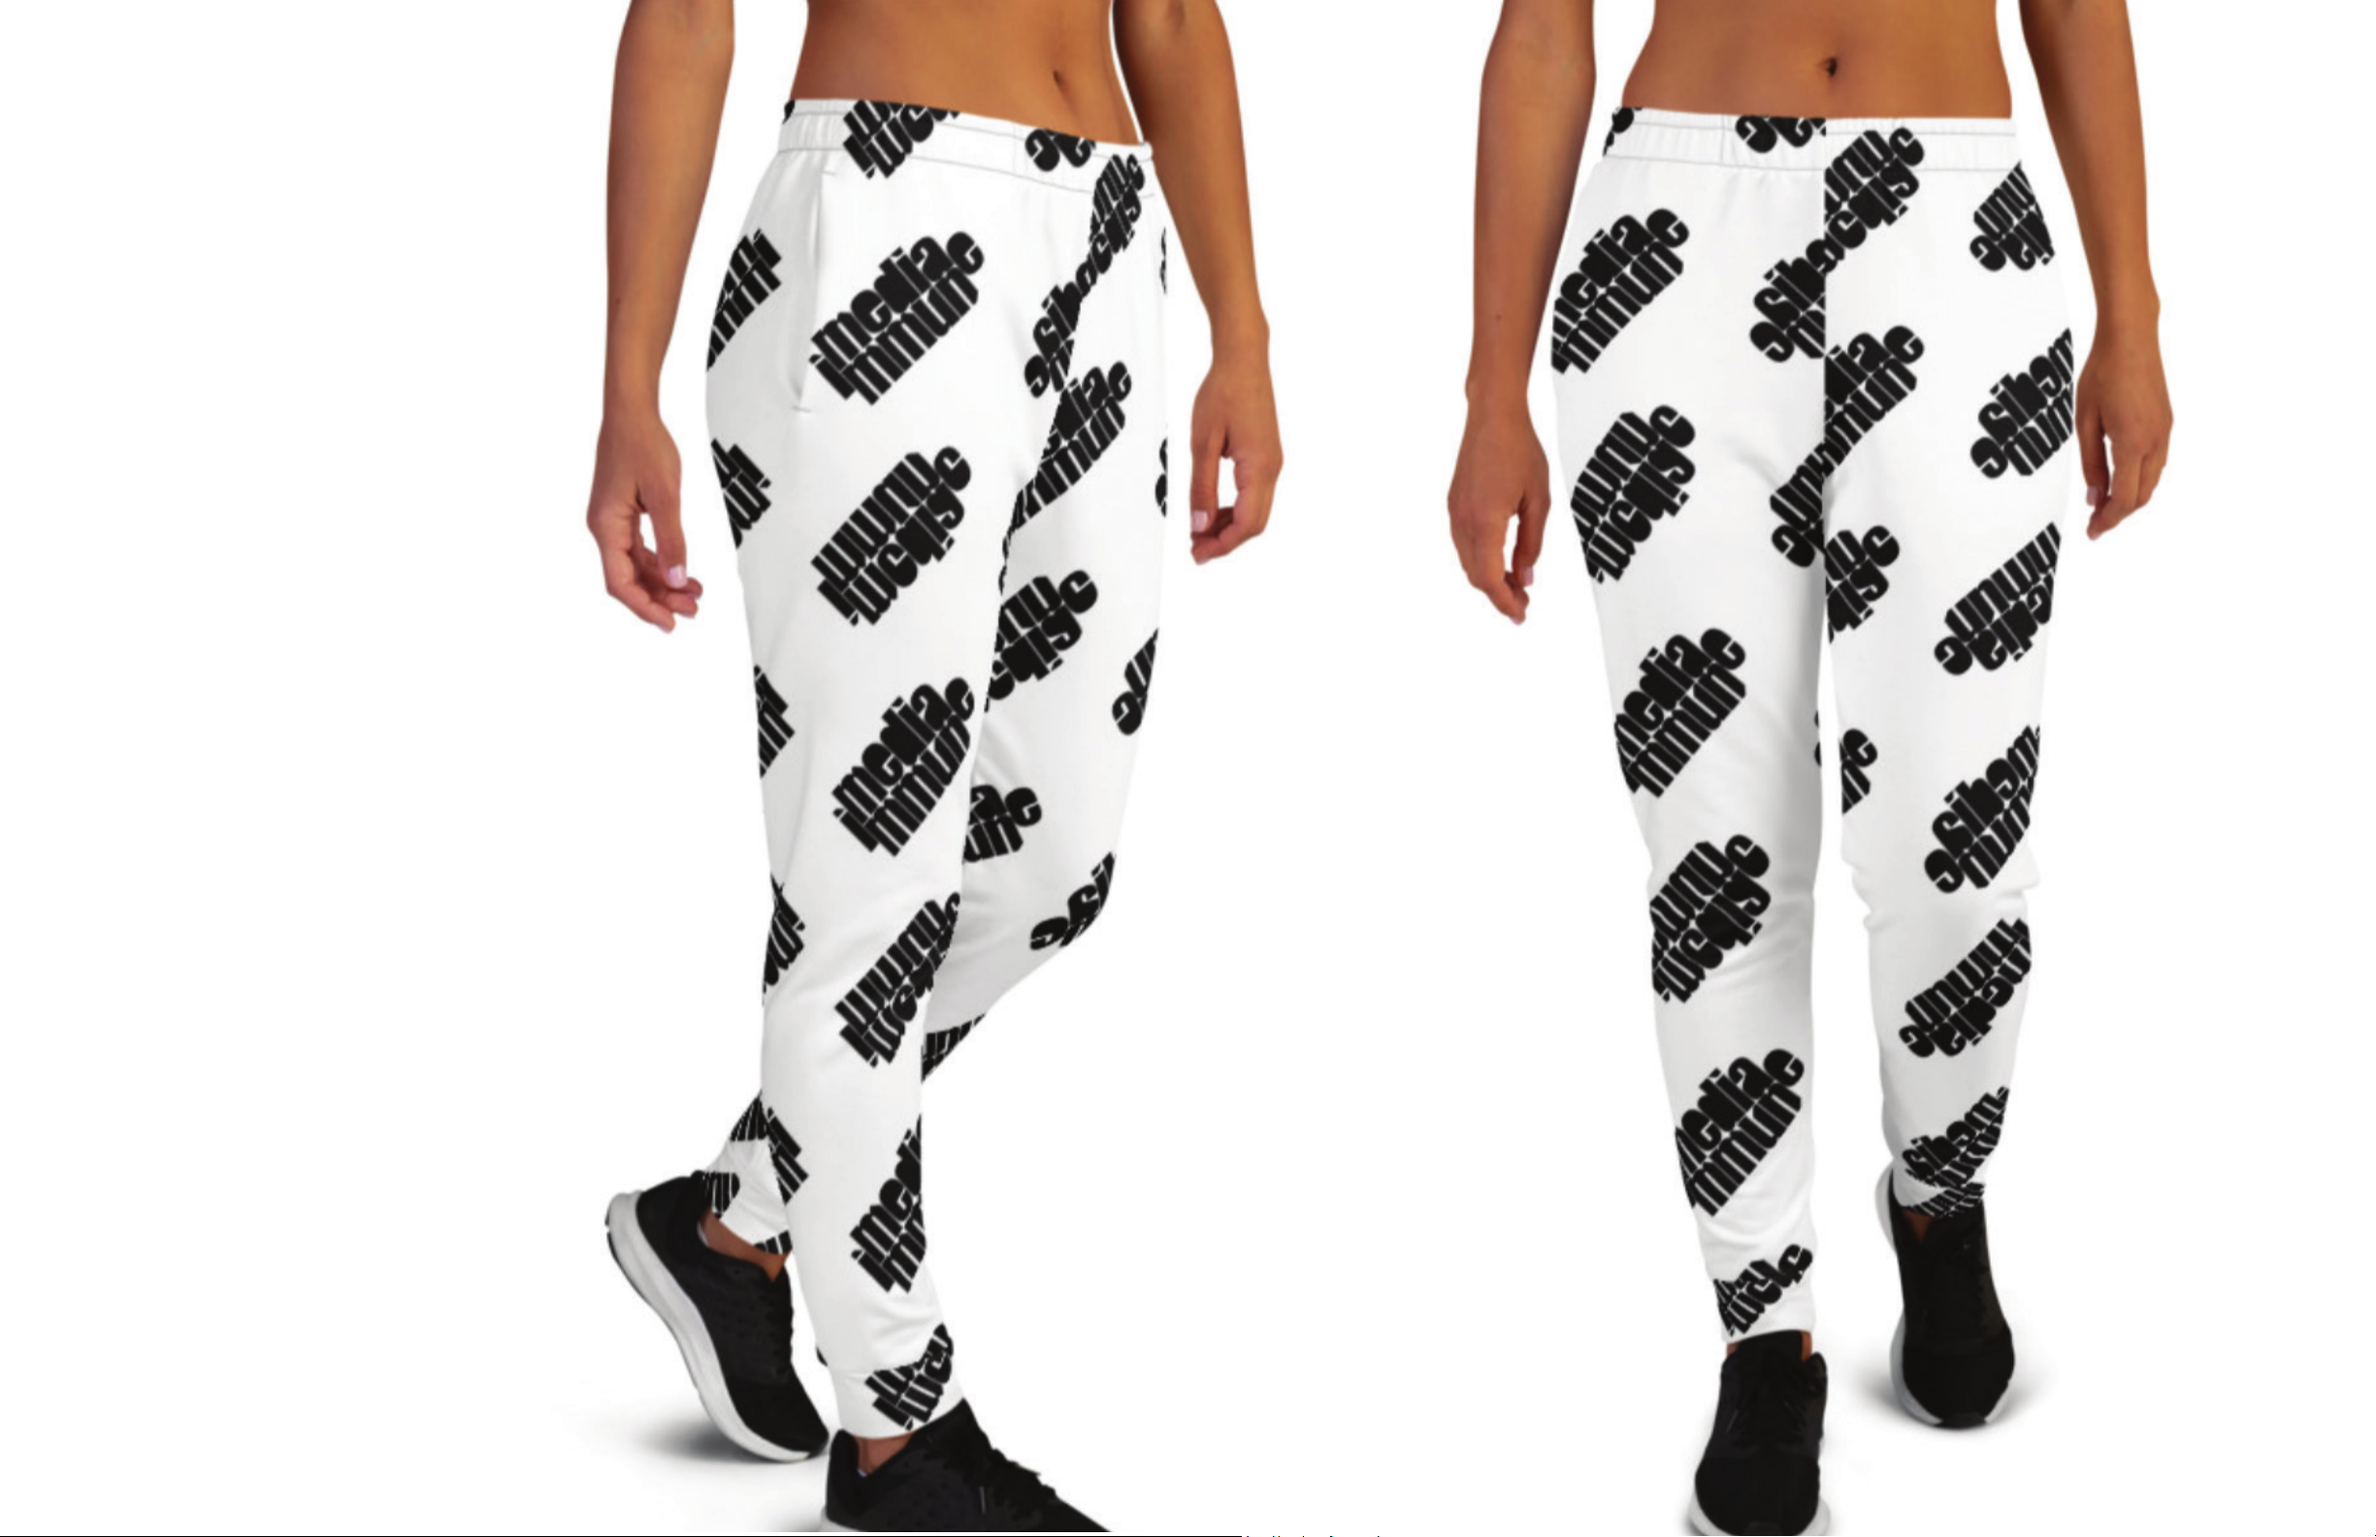
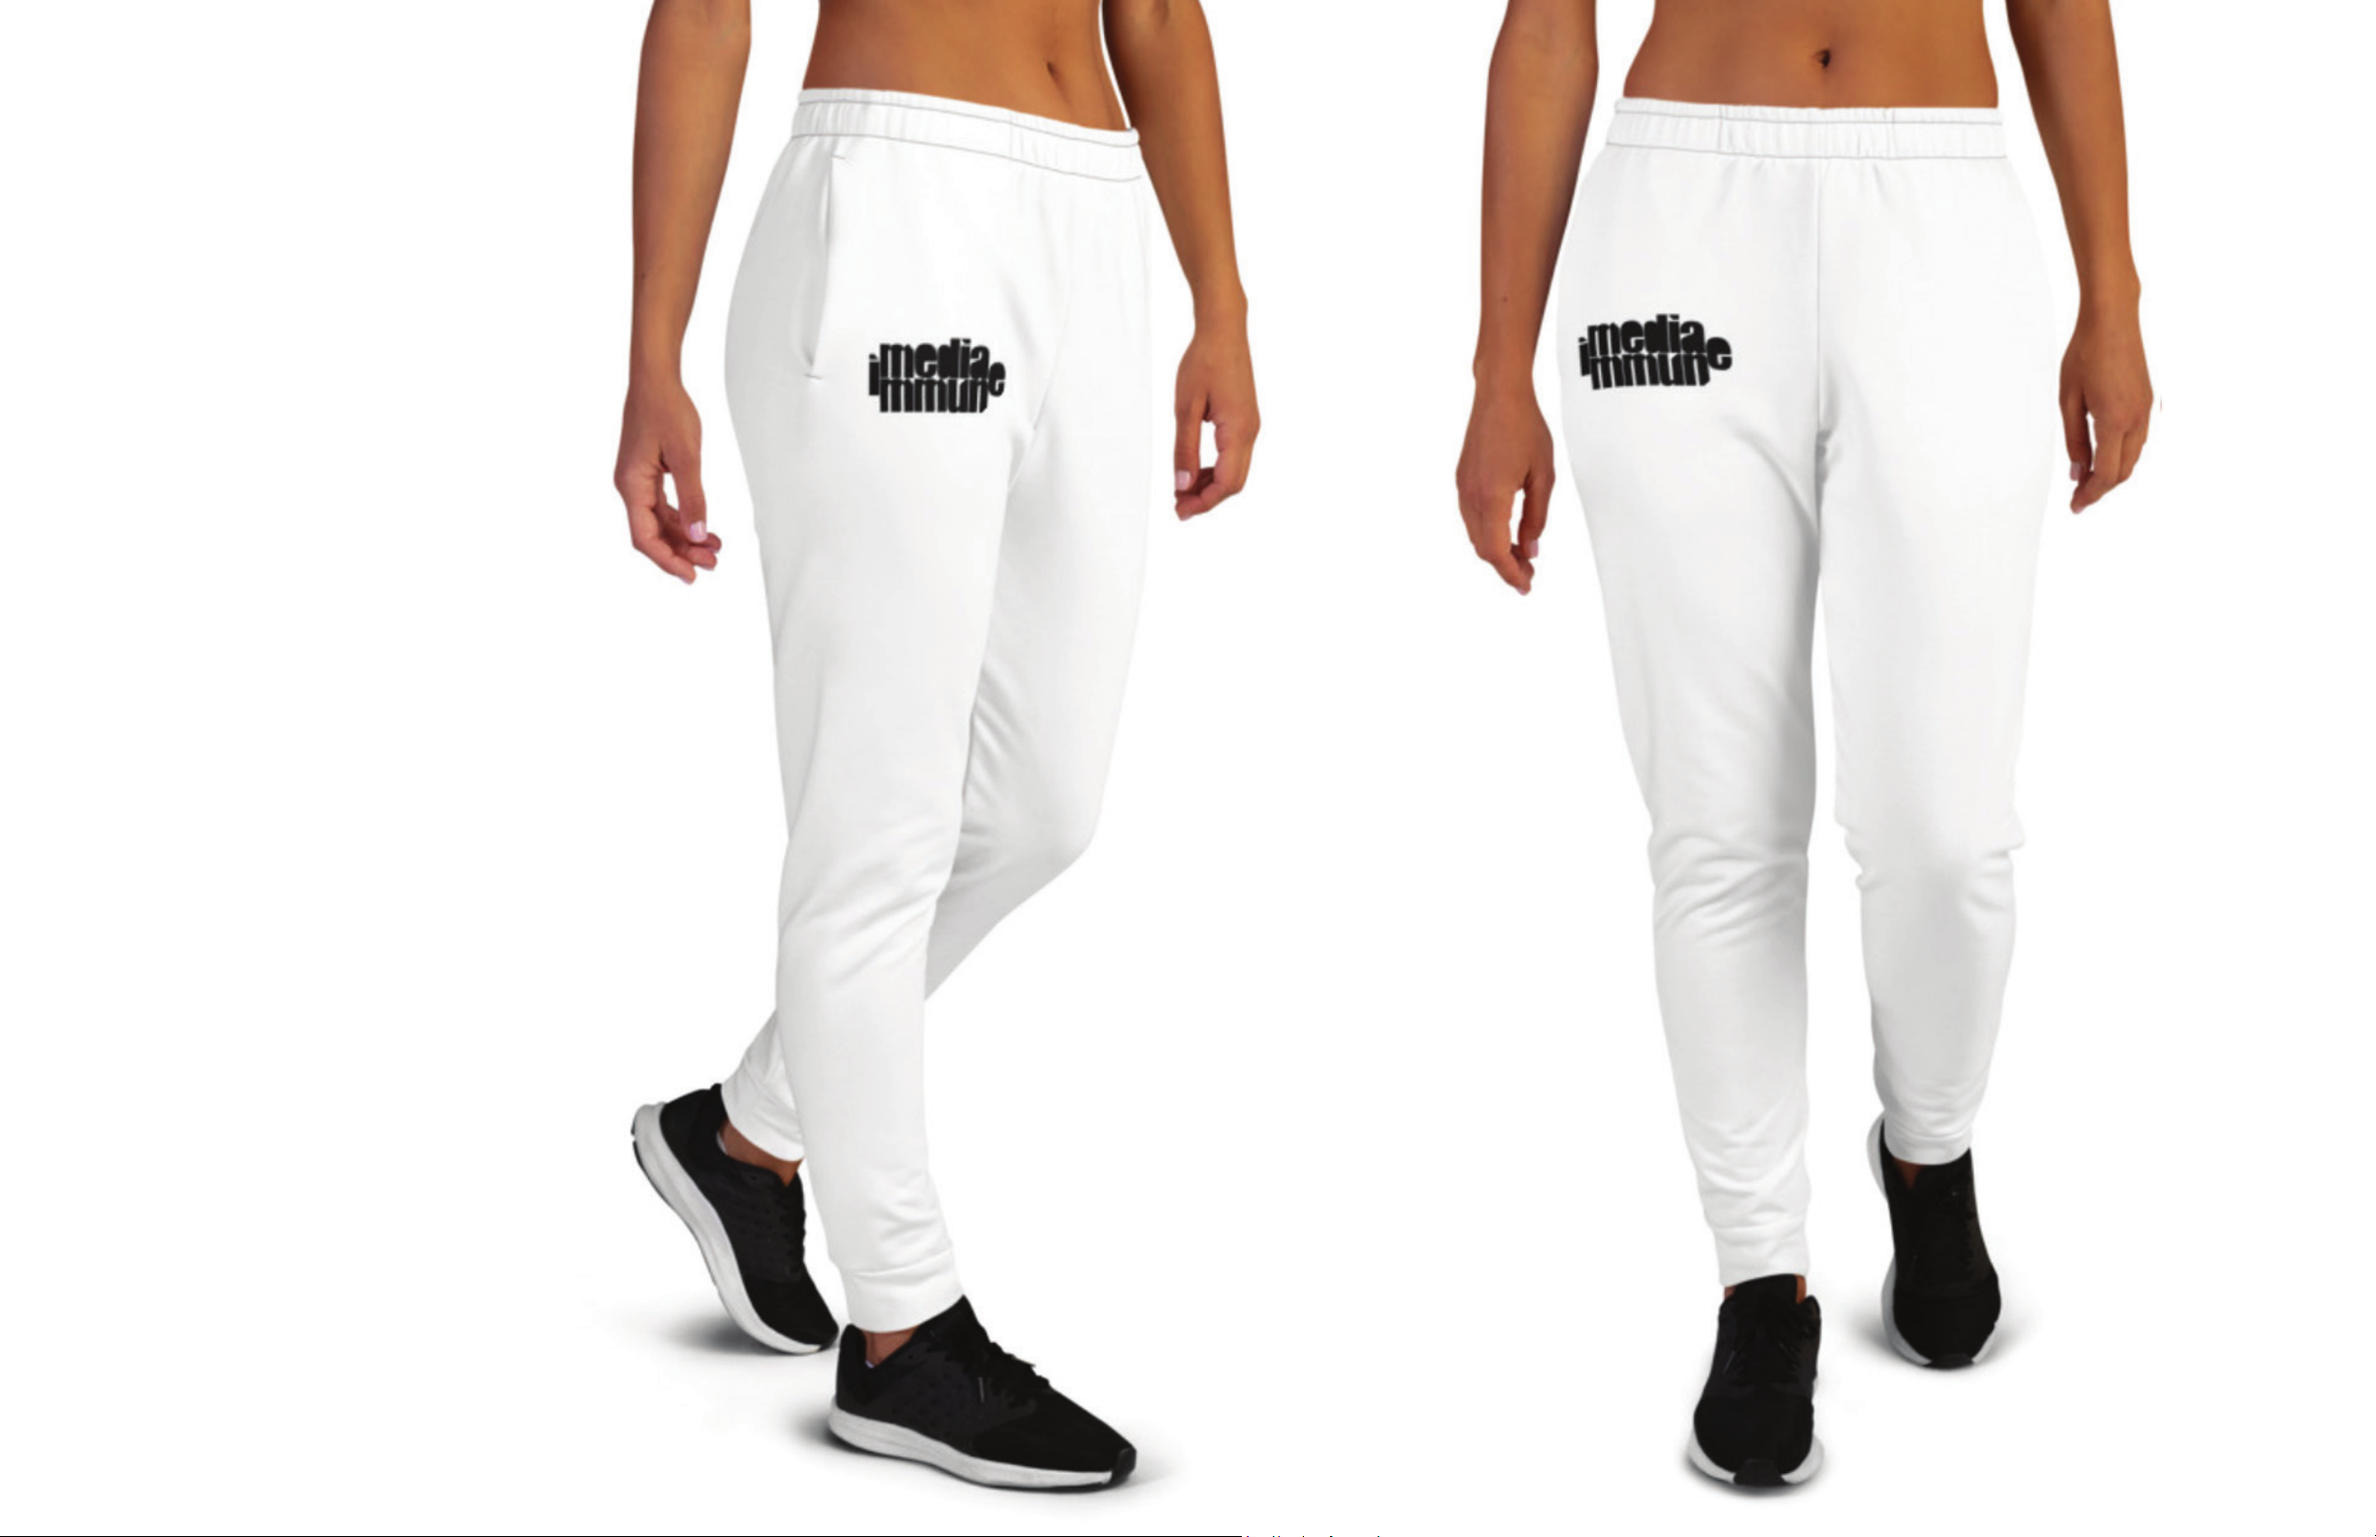
final

Changed region(s): [[0.2483, 0.0, 0.5586, 1.0], [0.5896, 0.0, 0.931, 1.0]]

diff --git a/index.html b/index.html
@@ -6164,7 +6164,7 @@
         e.preventDefault();
 
         var passphrase = document.getElementById('staticrypt-password').value,
[2 lines of base64/hex data omitted]
             encryptedHMAC = encryptedMsg.substring(0, 64),
             encryptedHTML = encryptedMsg.substring(64),
             decryptedHMAC = CryptoJS.HmacSHA256(encryptedHTML, CryptoJS.SHA256(passphrase).toString()).toString();

diff --git a/brandingguide.css b/brandingguide.css
@@ -8,7 +8,7 @@
 @font-face{font-family:ff7;src:url(f7.woff)format("woff");}.ff7{font-family:ff7;line-height:1.203000;font-style:normal;font-weight:normal;visibility:visible;}
 @font-face{font-family:ff8;src:url(f8.woff)format("woff");}.ff8{font-family:ff8;line-height:0.712000;font-style:normal;font-weight:normal;visibility:visible;}
 @font-face{font-family:ff9;src:url(f9.woff)format("woff");}.ff9{font-family:ff9;line-height:0.712000;font-style:normal;font-weight:normal;visibility:visible;}
-.m0{transform:matrix(0.375000,0.000000,0.000000,0.375000,0,0);-ms-transform:matrix(0.375000,0.000000,0.000000,0.375000,0,0);-webkit-transform:matrix(0.375000,0.000000,0.000000,0.375000,0,0);}
+.m0{transform:matrix(0.250000,0.000000,0.000000,0.250000,0,0);-ms-transform:matrix(0.250000,0.000000,0.000000,0.250000,0,0);-webkit-transform:matrix(0.250000,0.000000,0.000000,0.250000,0,0);}
 .v0{vertical-align:0.000000px;}
 .ls2{letter-spacing:-52.228440px;}
 .ls1{letter-spacing:-48.327960px;}
@@ -55,112 +55,112 @@
 .fs0{font-size:288.000000px;}
 .fs4{font-size:483.279600px;}
 .fs5{font-size:522.284400px;}
-.y12{bottom:-99.717000px;}
-.ye{bottom:-99.716850px;}
-.ya{bottom:-99.715500px;}
-.y11{bottom:-73.797000px;}
-.yd{bottom:-73.796850px;}
-.y9{bottom:-73.795500px;}
-.y10{bottom:-47.877000px;}
-.yc{bottom:-47.876850px;}
-.y8{bottom:-47.875500px;}
-.y0{bottom:-0.750000px;}
-.y27{bottom:39.735600px;}
-.y23{bottom:43.335600px;}
-.y4{bottom:52.335600px;}
-.y25{bottom:57.735600px;}
-.y19{bottom:76.357200px;}
-.y28{bottom:81.135600px;}
-.y26{bottom:120.735600px;}
-.y22{bottom:124.335600px;}
-.y3{bottom:135.577050px;}
-.y24{bottom:138.735600px;}
-.yf{bottom:212.250000px;}
-.y2{bottom:243.577050px;}
-.y1d{bottom:284.964600px;}
-.y13{bottom:290.700000px;}
-.y17{bottom:303.805200px;}
-.y1{bottom:351.577050px;}
-.y1c{bottom:398.632500px;}
-.yb{bottom:497.250000px;}
-.y18{bottom:523.585200px;}
-.y1e{bottom:542.145600px;}
-.y1b{bottom:553.248798px;}
-.y1f{bottom:570.735600px;}
-.y20{bottom:570.736050px;}
-.y21{bottom:575.258550px;}
-.y6{bottom:575.700000px;}
-.y16{bottom:646.165200px;}
-.y1a{bottom:684.096750px;}
-.y7{bottom:808.048500px;}
-.y15{bottom:831.277200px;}
-.y5{bottom:886.500000px;}
-.y14{bottom:1015.093200px;}
+.y12{bottom:-66.478000px;}
+.ye{bottom:-66.477900px;}
+.ya{bottom:-66.477000px;}
+.y11{bottom:-49.198000px;}
+.yd{bottom:-49.197900px;}
+.y9{bottom:-49.197000px;}
+.y10{bottom:-31.918000px;}
+.yc{bottom:-31.917900px;}
+.y8{bottom:-31.917000px;}
+.y0{bottom:-0.500000px;}
+.y27{bottom:26.490400px;}
+.y23{bottom:28.890400px;}
+.y4{bottom:34.890400px;}
+.y25{bottom:38.490400px;}
+.y19{bottom:50.904800px;}
+.y28{bottom:54.090400px;}
+.y26{bottom:80.490400px;}
+.y22{bottom:82.890400px;}
+.y3{bottom:90.384700px;}
+.y24{bottom:92.490400px;}
+.yf{bottom:141.500000px;}
+.y2{bottom:162.384700px;}
+.y1d{bottom:189.976400px;}
+.y13{bottom:193.800000px;}
+.y17{bottom:202.536800px;}
+.y1{bottom:234.384700px;}
+.y1c{bottom:265.755000px;}
+.yb{bottom:331.500000px;}
+.y18{bottom:349.056800px;}
+.y1e{bottom:361.430400px;}
+.y1b{bottom:368.832532px;}
+.y1f{bottom:380.490400px;}
+.y20{bottom:380.490700px;}
+.y21{bottom:383.505700px;}
+.y6{bottom:383.800000px;}
+.y16{bottom:430.776800px;}
+.y1a{bottom:456.064500px;}
+.y7{bottom:538.699000px;}
+.y15{bottom:554.184800px;}
+.y5{bottom:591.000000px;}
+.y14{bottom:676.728800px;}
 .h6{height:40.320000px;}
+.h5{height:128.600000px;}
 .h3{height:172.260000px;}
-.h5{height:192.900000px;}
 .h4{height:202.781250px;}
 .h7{height:274.464000px;}
 .h2{height:275.616000px;}
+.ha{height:284.639000px;}
 .h8{height:304.171875px;}
 .h9{height:338.295720px;}
 .hb{height:365.599080px;}
-.ha{height:426.958500px;}
-.h0{height:1188.000000px;}
-.h1{height:1188.750000px;}
-.w2{width:192.900000px;}
-.w3{width:837.088500px;}
-.w0{width:1836.000000px;}
-.w1{width:1836.750000px;}
-.x7{left:-101.016750px;}
+.h0{height:792.000000px;}
+.h1{height:792.500000px;}
+.w2{width:128.600000px;}
+.w3{width:558.059000px;}
+.w0{width:1224.000000px;}
+.w1{width:1224.500000px;}
+.x7{left:-67.344500px;}
 .x0{left:0.000000px;}
-.x4{left:54.000000px;}
-.x15{left:59.400000px;}
-.x10{left:102.647100px;}
-.xe{left:107.042862px;}
-.xd{left:193.489500px;}
-.x6{left:253.350000px;}
-.x12{left:424.952100px;}
-.x5{left:475.800000px;}
-.x3{left:645.707400px;}
-.x13{left:713.814450px;}
-.x14{left:719.821950px;}
-.x1{left:819.803400px;}
-.xb{left:876.852000px;}
-.xa{left:890.352000px;}
-.xf{left:930.000000px;}
-.x11{left:939.207150px;}
-.xc{left:960.876000px;}
-.x9{left:1071.750000px;}
-.x8{left:1294.200000px;}
-.x2{left:1327.295400px;}
+.x4{left:36.000000px;}
+.x15{left:39.600000px;}
+.x10{left:68.431400px;}
+.xe{left:71.361908px;}
+.xd{left:128.993000px;}
+.x6{left:168.900000px;}
+.x12{left:283.301400px;}
+.x5{left:317.200000px;}
+.x3{left:430.471600px;}
+.x13{left:475.876300px;}
+.x14{left:479.881300px;}
+.x1{left:546.535600px;}
+.xb{left:584.568000px;}
+.xa{left:593.568000px;}
+.xf{left:620.000000px;}
+.x11{left:626.138100px;}
+.xc{left:640.584000px;}
+.x9{left:714.500000px;}
+.x8{left:862.800000px;}
+.x2{left:884.863600px;}
 @media print{
 .v0{vertical-align:0.000000pt;}
-.ls2{letter-spacing:-46.425280pt;}
-.ls1{letter-spacing:-42.958187pt;}
-.ls3{letter-spacing:-11.040000pt;}
+.ls2{letter-spacing:-69.637920pt;}
+.ls1{letter-spacing:-64.437280pt;}
+.ls3{letter-spacing:-16.560000pt;}
 .ls0{letter-spacing:0.000000pt;}
 .ws0{word-spacing:0.000000pt;}
-.ws3{word-spacing:11.040000pt;}
-.ws1{word-spacing:42.958187pt;}
-.ws2{word-spacing:46.425280pt;}
-._3{margin-left:-15.056000pt;}
-._8{margin-left:-10.880000pt;}
-._0{margin-left:-8.704000pt;}
-._6{margin-left:-6.656000pt;}
-._a{margin-left:-5.440000pt;}
-._5{margin-left:-4.352000pt;}
-._1{margin-left:-2.720000pt;}
-._2{margin-left:-1.331200pt;}
-._7{width:2.636800pt;}
-._4{width:4.352000pt;}
-._9{width:11.040000pt;}
-.fs3{font-size:51.200000pt;}
-.fs1{font-size:160.000000pt;}
-.fs2{font-size:170.666667pt;}
-.fs0{font-size:256.000000pt;}
-.fs4{font-size:429.581867pt;}
-.fs5{font-size:464.252800pt;}
+.ws3{word-spacing:16.560000pt;}
+.ws1{word-spacing:64.437280pt;}
+.ws2{word-spacing:69.637920pt;}
+._3{margin-left:-22.584000pt;}
+._8{margin-left:-16.320000pt;}
+._0{margin-left:-13.056000pt;}
+._6{margin-left:-9.984000pt;}
+._a{margin-left:-8.160000pt;}
+._5{margin-left:-6.528000pt;}
+._1{margin-left:-4.080000pt;}
+._2{margin-left:-1.996800pt;}
+._7{width:3.955200pt;}
+._4{width:6.528000pt;}
+._9{width:16.560000pt;}
+.fs3{font-size:76.800000pt;}
+.fs1{font-size:240.000000pt;}
+.fs2{font-size:256.000000pt;}
+.fs0{font-size:384.000000pt;}
+.fs4{font-size:644.372800pt;}
+.fs5{font-size:696.379200pt;}
 .y12{bottom:-88.637333pt;}
 .ye{bottom:-88.637200pt;}
 .ya{bottom:-88.636000pt;}
@@ -202,16 +202,16 @@
 .y15{bottom:738.913067pt;}
 .y5{bottom:788.000000pt;}
 .y14{bottom:902.305067pt;}
-.h6{height:35.840000pt;}
-.h3{height:153.120000pt;}
+.h6{height:53.760000pt;}
 .h5{height:171.466667pt;}
-.h4{height:180.250000pt;}
-.h7{height:243.968000pt;}
-.h2{height:244.992000pt;}
-.h8{height:270.375000pt;}
-.h9{height:300.707307pt;}
-.hb{height:324.976960pt;}
+.h3{height:229.680000pt;}
+.h4{height:270.375000pt;}
+.h7{height:365.952000pt;}
+.h2{height:367.488000pt;}
 .ha{height:379.518667pt;}
+.h8{height:405.562500pt;}
+.h9{height:451.060960pt;}
+.hb{height:487.465440pt;}
 .h0{height:1056.000000pt;}
 .h1{height:1056.666667pt;}
 .w2{width:171.466667pt;}
